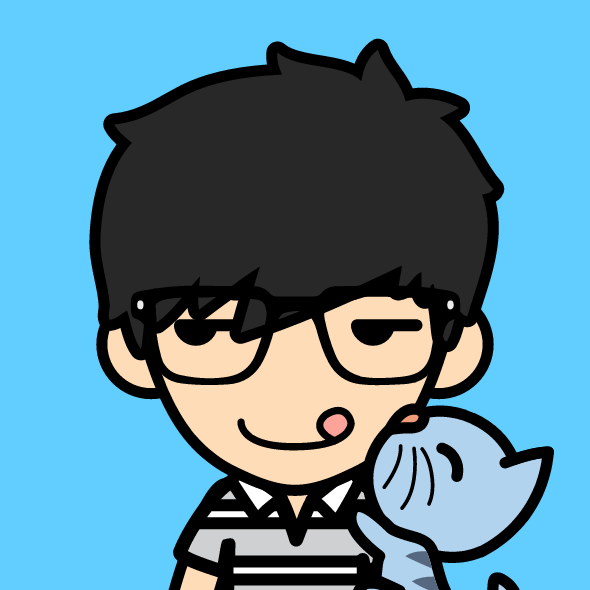
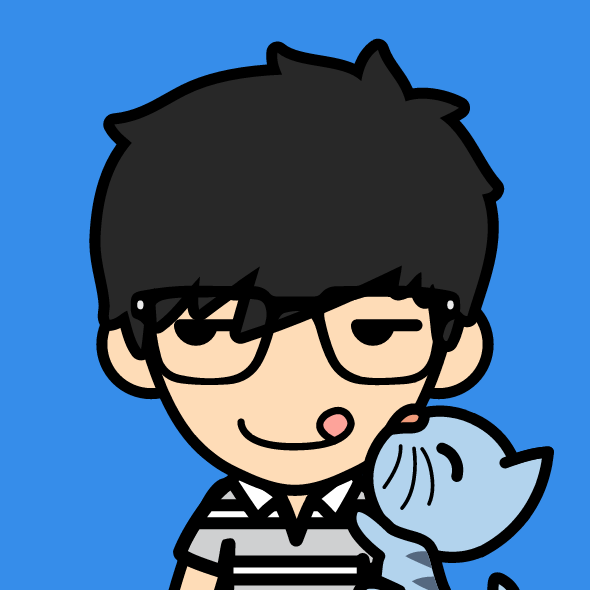
update theme and add new project

diff --git a/index.html b/index.html
@@ -5,14 +5,16 @@ title: Vincent Cheung's 博客
 
 <!-- content -->
 {% for post in paginator.posts %}
-<div class="post-item">
-  <a href="{{ post.url }}">
-    <h2>{{ post.title }}</h2>
-  </a>
-  <p><h3><small>{{ post.head }}</small></h3></p>
-  <p class="date"><h3><small>{{ post.date | date_to_long_string}}</small></h3></p>
-  <hr>
-</div>
+  {% if post.group == null %}
+    <div class="post-item">
+    <a href="{{ post.url }}">
+      <h2>{{ post.title }}</h2>
+    </a>
+    <p><h3><small>{{ post.head }}</small></h3></p>
+    <p class="date"><h3><small>{{ post.date | date_to_long_string}}</small></h3></p>
+    <hr>
+    </div>
+  {% endif %}
 {% endfor %}
 
 <!-- paginator -->

diff --git a/project.html b/project.html
@@ -5,3 +5,10 @@ group: navigation
 ---
 {% include cooler/setup %}
 
+<div>
+  <ul>
+    {% assign projects_list = site.posts %}
+    {% assign group = 'project' %}
+    {% include/cooler/projects_list %}
+  </ul>
+</div>

diff --git a/assets/themes/bootstrap-3/css/cooler.css b/assets/themes/bootstrap-3/css/cooler.css
@@ -43,7 +43,7 @@ body > .nav-container {
 
 .content {
   padding: 15px 40px;
-  margin-bottom: 40px;
+  margin-bottom: 80px;
   border: 1px solid #d9d9d9;
   border-radius: 3px;
   background-color: #ffffff;

diff --git a/_posts/2015-02-11-android-http-download-manager.md b/_posts/2015-02-11-android-http-download-manager.md
@@ -1,0 +1,10 @@
+---
+layout: post
+title: Android Http Download Manger
+description: An useful and effective http/https download manager for Android, support breakpoint downloading.
+group: project
+category: android
+tags: [http, download]
+---
+{% include cooler/setup %}
+

diff --git a/_posts/2015-02-11-android-app-uninstall-watcher.md b/_posts/2015-02-11-android-app-uninstall-watcher.md
@@ -1,0 +1,9 @@
+---
+layout: post
+title: Android App Uninstall Watcher
+description: App uninstall watcher, used to monitor the uninstall of your app.
+group: project
+category: android
+tags: [ndk, uninstall]
+---
+{% include cooler/setup %}

diff --git a/_posts/2015-02-11-android-app-daemon.md b/_posts/2015-02-11-android-app-daemon.md
@@ -1,0 +1,9 @@
+---
+layout: post
+title: Android App Daemon
+description: Android app process daemon, keep your app alive.
+group: project
+category: android
+tags: [ndk, daemon]
+---
+{% include cooler/setup %}
